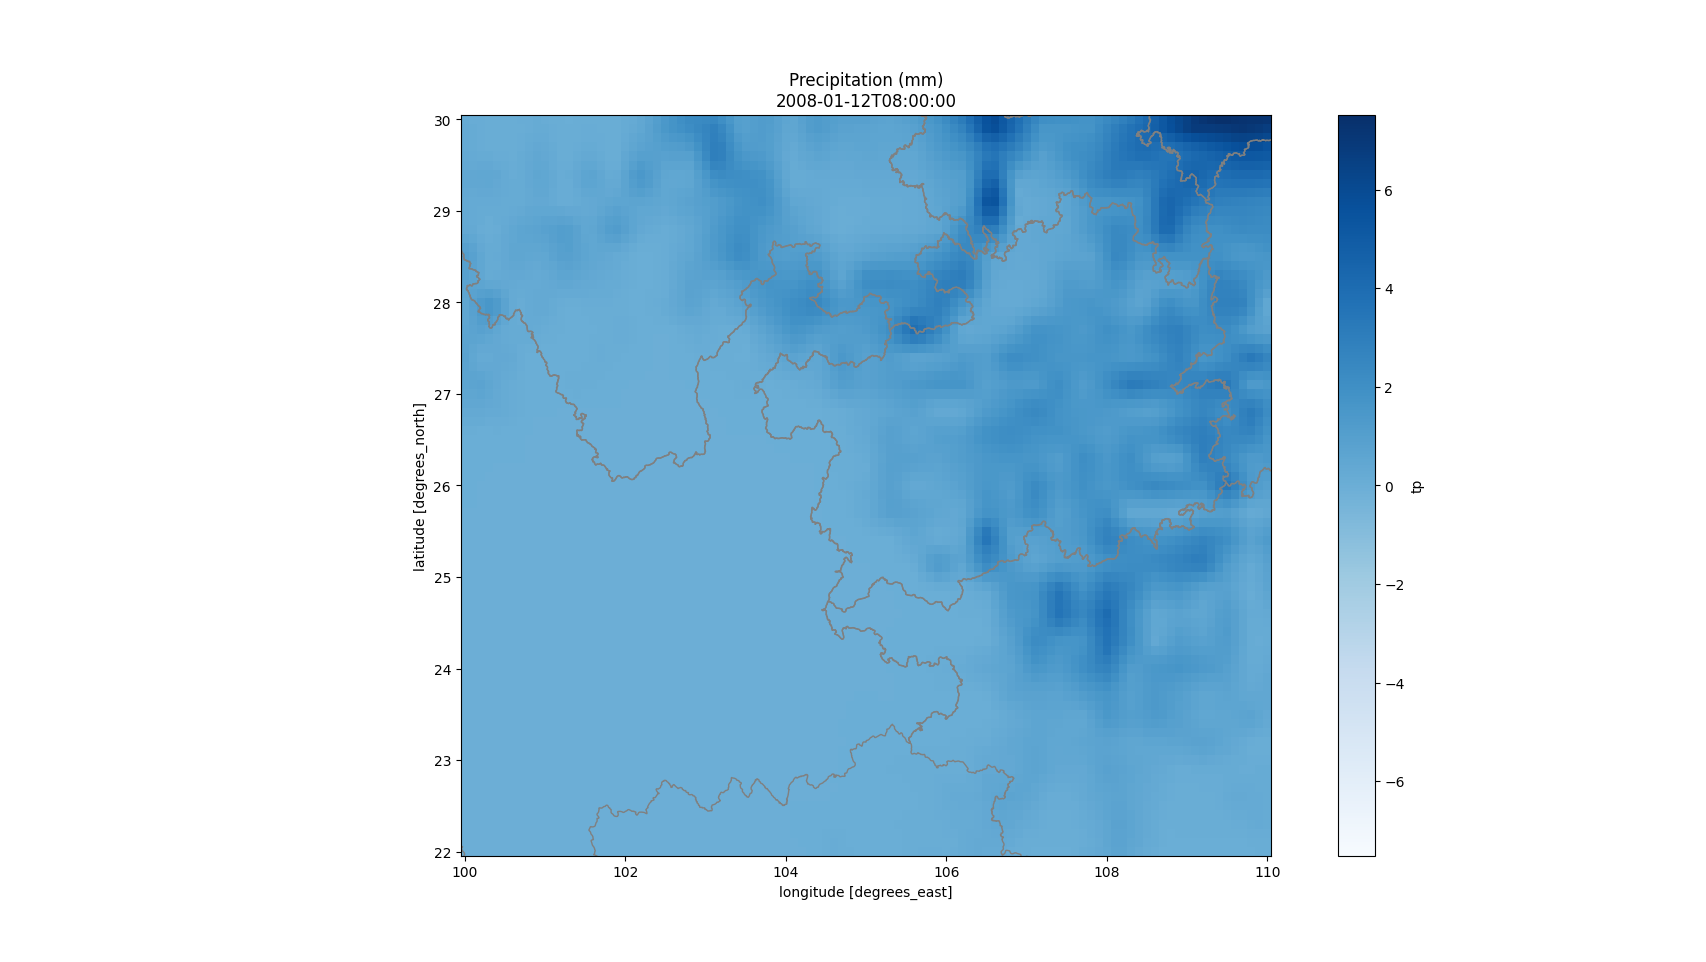
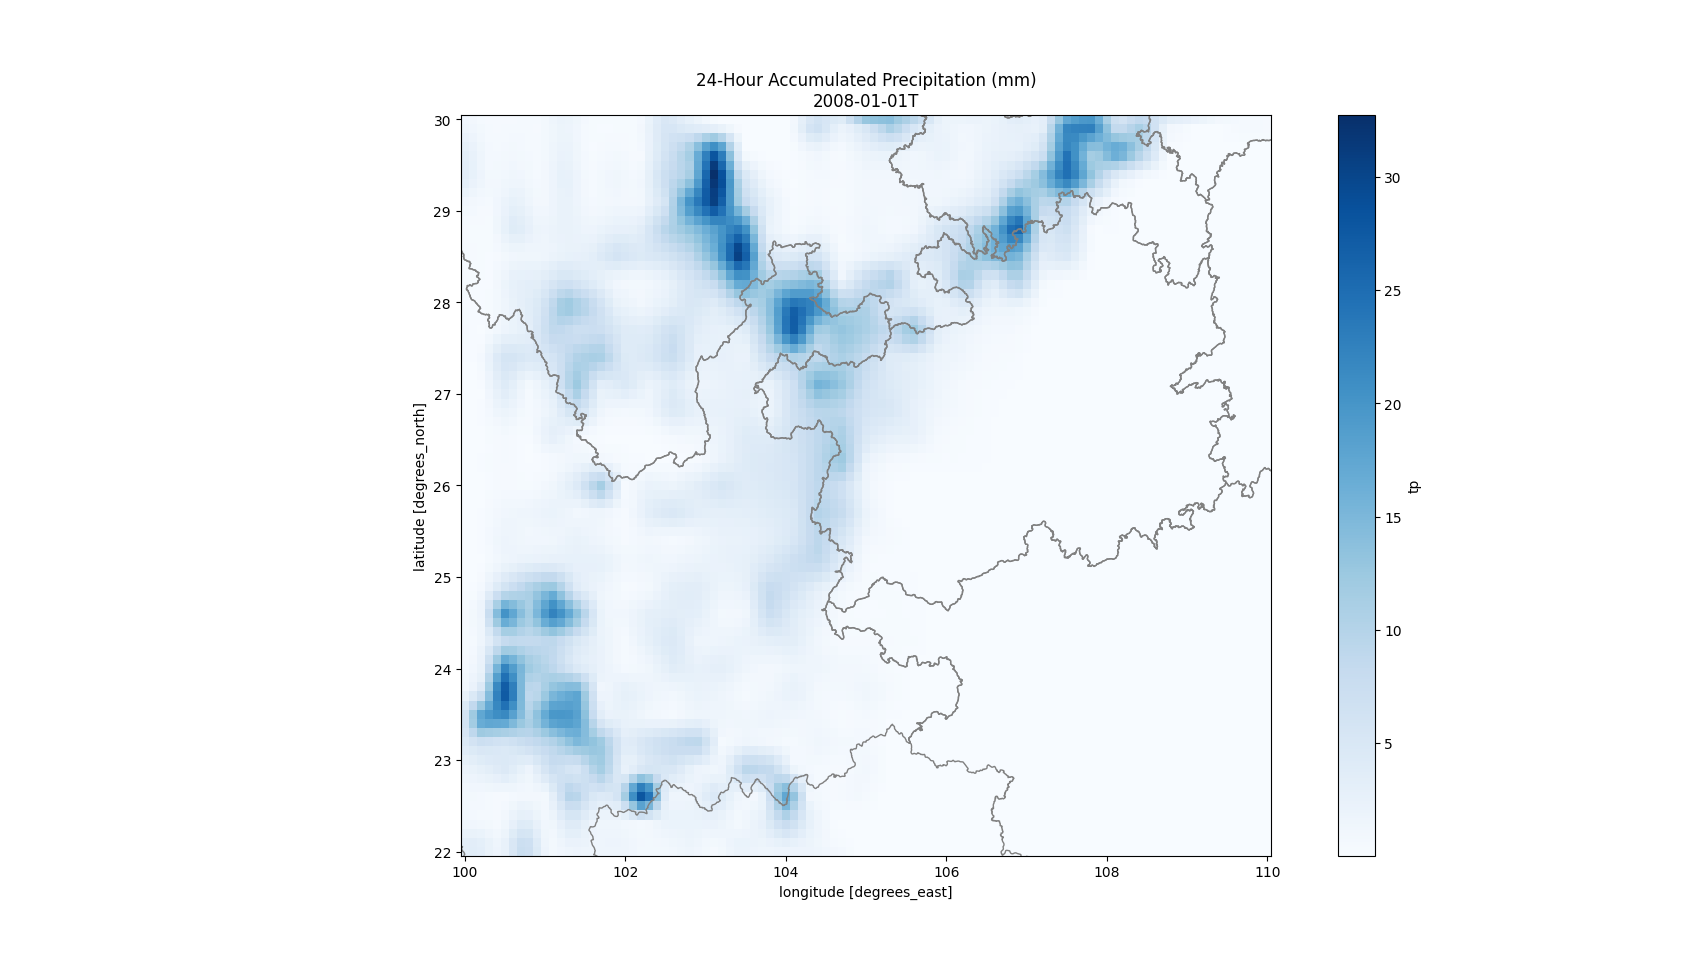
我把降水量改为了每天24h的累计，便于后面降雨类型的分析

diff --git a/Project/降水图/降水量.py b/Project/降水图/降水量.py
@@ -1,0 +1,47 @@
+import numpy as np
+import xarray as xr
+import geopandas as gpd
+import matplotlib.pyplot as plt
+
+# 读取ERA5文件数据
+era5_data = xr.open_dataset("../../Dataset/data2008_1.nc")
+
+# 选择日期
+date_to_plot = "2008-01-01T"
+
+# 选择该日期内的所有时间点
+data_at_date = era5_data.sel(time=date_to_plot)
+
+# 定义区域范围
+lon_range = [100, 110]
+lat_range = [22, 30]
+
+# 截取指定区域的数据
+regional_data = data_at_date.where(
+    (data_at_date.latitude >= lat_range[0])
+    & (data_at_date.latitude <= lat_range[1])
+    & (data_at_date.longitude >= lon_range[0])
+    & (data_at_date.longitude <= lon_range[1]),
+    drop=True,
+)
+
+# 提取降水数据并将单位转换为毫米
+precipitation = regional_data["tp"] * 1000  # 将单位从米转换为毫米
+
+# 将时间维度合并为一维数组，并对降水量进行累积
+accumulated_precipitation = precipitation.resample(time="24H").sum()
+
+# 读取中国各省边界数据
+china_provinces = gpd.read_file("../../Province_SHP/province.shp")
+
+# 绘图
+fig, ax = plt.subplots(figsize=(10, 10))
+accumulated_precipitation.plot(ax=ax, x="longitude", y="latitude", cmap="Blues")  # 使用适当的色彩映射
+china_provinces.plot(ax=ax, color="none", edgecolor="gray")
+
+# 设置标题
+ax.set_title(f"24-Hour Accumulated Precipitation (mm)\n{date_to_plot}")
+
+# 显示图形
+plt.show()
+
